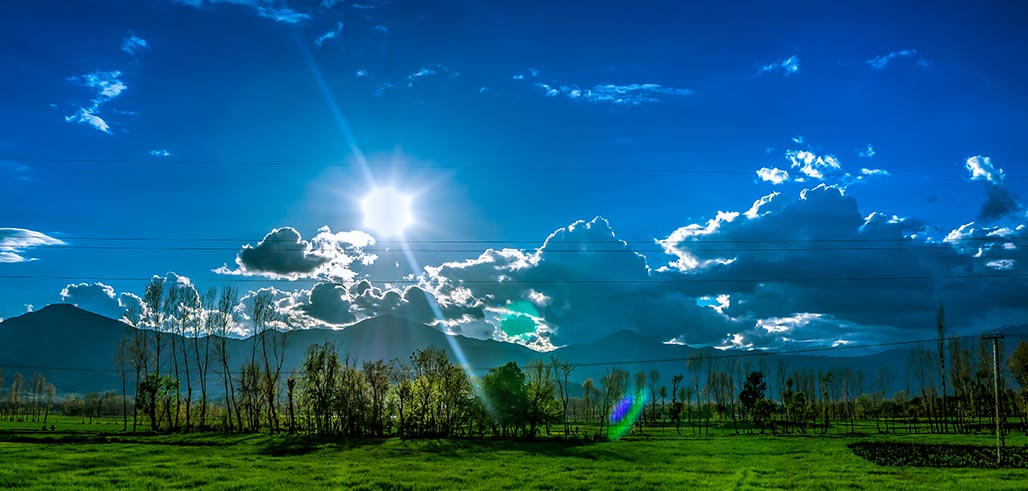
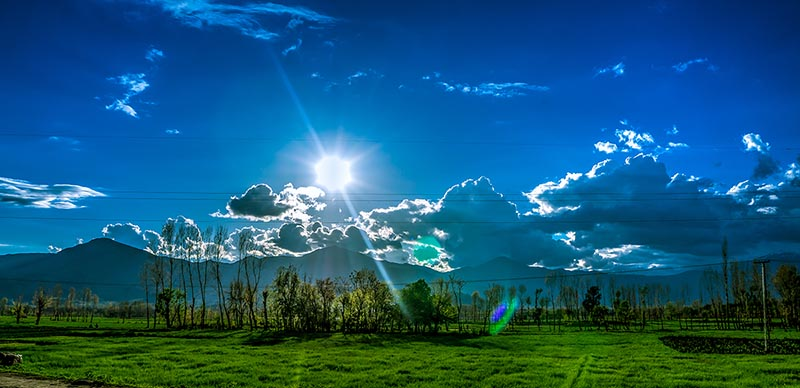
week 7 changes

diff --git a/lesson-7/preston-7.html b/lesson-7/preston-7.html
@@ -14,16 +14,16 @@
 <header>
     <div><img src='images/191719709Untitled-3-512.png' alt="header image"></div>
     <div>
-        <h1>Preston Home Page</h1>
-        <h2>Motto or catch phrase</h2>
+        <h1>iGeo Weather</h1>
+        <h3>Whether here or there, we're with you.</h3>
     </div>
     <div><img src='images/weather-512.png' alt="second image"></div>
 </header>
 <nav class="clearfix">
-    <button onclick="toogleMenu()">&#9776</button>
+    <button onclick="toogleMenu()" class='hamburguer'>&#9776;</button>
     <ul id="menulist" class="hide">
         <li class='menuitem'><a href="#" class="current">Home</a></li>
-        <li class='menuitem'><a href="#" class="current">Preston</a></li>
+        <li class='menuitem'><a href="preston-7.html" class="current">Preston</a></li>
         <li class='menuitem'><a href="#" class="current">Soda Springs</a></li>
         <li class='menuitem'><a href="#" class="current">Fish Haven</a></li>
         <li class='menuitem'><a href="#" class="current">Storm Center</a></li>
@@ -32,19 +32,47 @@
 </nav>
 <main>
     <h1>The Town of Preston</h1>
-    <figure class="slider"><img src="images/hero-slider-small.jpg" alt="main slider"></figure>
+    <picture class="slider">
+            <img srcset="images/hero-slider-small.jpg 480w, images/hero-slider-large.jpg 801w" sizes="(max-width: 800px) 280px,
+            (min-width: 801px) 440px, 800px" src="images/hero-slider-largel.jpg" alt="main slider">
+    </picture>
     <div class="insideSlider">
         <h2>Weather Summary</h2>
         <ul>
             <li>Currently: <span class='weather-summary-option'>Sunny</span></li>
-            <li>Temperature: <span class='weather-summary-option'>76º F</span></li>
+            <li>Temperature: <span class='weather-summary-option' id="temperature">50º F</span></li>
             <li>Humidity: <span class='weather-summary-option'>69%</span></li>
             <li>Precipitaton: <span class='weather-summary-option'>0 Inches</span></li>
-            <li>Wind Speed: <span class='weather-summary-option'>5 mph</span></li>
+            <li>Wind Speed: <span class='weather-summary-option' id="windspeed">5 mph</span></li>
+            <li>Wind Chill: <span class='weather-summary-option' id='windchill'></span></li>
         </ul>
     </div>
 </main>
-
+<section class="forecast">
+    <h3>High Temperature Forecast</h3>
+    <table>
+      <thead>
+        <tr>
+          <th>Day</th>
+          <th>Wed</th>
+          <th>Thu</th>
+          <th>Fri</th>
+          <th>Sat</th>
+          <th>Sun</th>
+        </tr>
+      </thead>
+      <tbody>
+        <tr>
+          <th>Forecast</th>
+          <td>89&deg;F</td>
+          <td>87&deg;F</td>
+          <td>78&deg;F</td>
+          <td>75&deg;F</td>
+          <td>72&deg;F</td>
+        </tr>
+      </tbody>
+    </table>
+  </section>
 <article class="firstArticle">
     <h2>Article</h2>
     <div><p class='firstText'>Lorem ipsum dolor sit amet, consectetur adipiscing elit, sed do eiusmod tempor incididunt ut labore et dolore magna aliqua. 
@@ -54,23 +82,26 @@
     <div class=" boxImageRight" ><img src="images/summer-512.png" alt="section image"  /></div>
 </article>
     
-<article class="secondArticle">
-        <h2>Map</h2>
-        <div class='inline'><img src='images/191719709Untitled-3-512.png' alt="another image"  ></div>
-        <div class='inline'>
-            <h4>The Weather Site</h4>
-            <h5>Caseros 468 / Salta Argentina</h5>
+<article>
+<h2>Map</h2>
+    <div class="secondArticle">
+        <div><img src='images/191719709Untitled-3-512.png' alt="another image"  ></div>
+        <div>
+            <h4>iGeo Weather</h4>
+            <h5>Preston Idaho</h5>
             <h5>Contact: +543874685059</h5>
             <h5>Email: angel@cit230.byui.edu</h5>
         </div>
-        <div class='inline'><img src='images/map.jpg' alt="Map Image"></div>
+        <div><iframe id="map" src="https://www.google.com/maps/embed?pb=!1m18!1m12!1m3!1d7512.042845891137!2d-111.88253835128918!3d42.09676908117736!2m3!1f0!2f0!3f0!3m2!1i1024!2i768!4f13.1!3m3!1m2!1s0x8754f78c7cda6c31%3A0xf1b3b4fc465a4a3f!2sPreston%2C+Idaho+83263%2C+EE.+UU.!5e1!3m2!1ses-419!2sar!4v1541271450800" allowfullscreen></iframe></div>
+    </div>
 </article>
 
 <footer>
     <div id="showdate"></div>
     <div><small>Copyright &copy; 2018</small></div>
 </footer>
-<script src="scripts/currentdate.js" type="text/javascript"></script>
-<script src="scripts/hamburger.js" type="text/javascript"></script>
+<script src="scripts/currentdate.js"></script>
+<script src="scripts/hamburger.js"></script>
+<script src="scripts/windchill.js"></script>
 </body>
 </html>

diff --git a/lesson-7/css/large-5.css b/lesson-7/css/large-5.css
@@ -21,7 +21,23 @@ header div h1, h2 {
 header img {
     width:150px;
 }
-
+.forecast{
+    width: 100%;
+    text-align:center;
+    background-color:#4c2a85;
+    color:white;
+    padding:10px;
+}
+.forecast table{
+    width:100%;
+    padding:10px;
+}
+.forecast h3{
+    background-color:#eff1f4;
+    padding:10px;
+    color:black;
+    
+}
 footer{
     margin: 2% 0% 2% 0%;
     padding: 15px;
@@ -78,7 +94,7 @@ h1{
 }
 .boxImageRight{
     float: right;
-    margin-top:-105px;
+    margin-top:-155px;
     
 }
 .firstArticle div p{
@@ -94,6 +110,14 @@ article{
     padding:25px;
     width: 100%;
     background-color: #eff1f4 ;
+}
+.secondArticle{
+    display: flex;
+    justify-content: space-between;
+    align-items: center;
+}
+.secondArticle h2{
+    text-align: center;
 }
 .insideSlider{
     position: absolute;
@@ -123,7 +147,7 @@ article{
     background-color: #fff;
  }
 .box {
-    width: 1fr;
+    width: 100%;
     color: #000000;
     border-radius: 5px;
     padding: 20px;
@@ -134,3 +158,6 @@ article{
  .box:hover{
      box-shadow: 2px 5px 5px 5px #4c2a85;
  }
+ #map{
+    width:100%;
+}

diff --git a/lesson-7/gallery-7.html b/lesson-7/gallery-7.html
@@ -20,10 +20,10 @@
     <div><img src='images/weather-512.png' alt="second image"></div>
 </header>
 <nav class="clearfix">
-    <button onclick="toogleMenu()">&#9776</button>
+    <button onclick="toogleMenu()" class='hamburguer'>&#9776;</button>
     <ul id="menulist" class="hide">
         <li class='menuitem'><a href="#" class="current">Home</a></li>
-        <li class='menuitem'><a href="#" class="current">Preston</a></li>
+        <li class='menuitem'><a href="preston-7.html" class="current">Preston</a></li>
         <li class='menuitem'><a href="#" class="current">Soda Springs</a></li>
         <li class='menuitem'><a href="#" class="current">Fish Haven</a></li>
         <li class='menuitem'><a href="#" class="current">Storm Center</a></li>
@@ -46,7 +46,7 @@
     <div id="showdate"></div>
     <div><small>Copyright &copy; 2018</small></div>
 </footer>
-<script src="scripts/currentdate.js" type="text/javascript"></script>
-<script src="scripts/hamburger.js" type="text/javascript"></script>
+<script src="scripts/currentdate.js"></script>
+<script src="scripts/hamburger.js"></script>
 </body>
 </html>

diff --git a/lesson-7/css/small-5.css b/lesson-7/css/small-5.css
@@ -13,6 +13,12 @@ header, footer {
     background-color: grey;
     color: whitesmoke;
 }
+.hamburguer{
+    color: #eff1f4;
+}
+.forecast{
+    display: none;
+   }
 header img {
     display: none;
 }
@@ -35,15 +41,14 @@ nav ul.hide{
     display: none;
 }
 nav ul li {
-    display: inline-block;
-    width: 20%;
+    width: 100%;
 }
 nav ul li a {
     display:block;
     padding: 2%;
     color:#ffffff;
     text-decoration: none;
-    border-top: 1px solid rgb(0,0,0,0.3);
+    border-top: 1px solid black;
 }
 nav button{
     margin: 0px;
@@ -137,4 +142,7 @@ article{
  .box:hover{
     width: 100%;
     box-shadow: 5px 15px 10px 10px #4c2a85;
+}
+#map{
+    width:100%;
 }

diff --git a/lesson-7/scripts/windchill.js b/lesson-7/scripts/windchill.js
@@ -1,0 +1,9 @@
+
+var f = 0;
+var t = parseFloat(document.getElementById("temperature").innerText);
+var s = parseFloat(document.getElementById("windspeed").innerText);
+s =  Math.pow(s, 0.16);
+
+f = Math.round((35.74 + .6215 * t - 35.75 * s + 0.42745 * t * s) * 100)/100;
+
+document.getElementById("windchill").innerHTML = f+"ºF";

diff --git a/lesson-7/css/hamburguer.css b/lesson-7/css/hamburguer.css
@@ -1,4 +1,4 @@
-.hamburger { display: block;position: absolute;top: 2.0rem;right: 1.25rem; }
+.hamburger { display: block;position: absolute;top: 2.0rem;right: 1.25rem;}
 
 .navigation { list-style: none; padding-left: 0; }
 .navigation li { display: none; }
